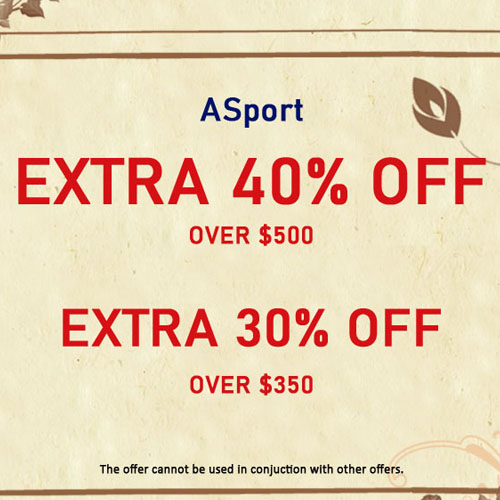
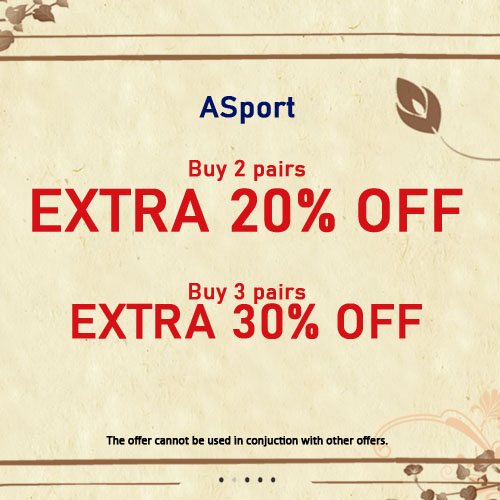
pairing

diff --git a/lib/request.dart b/lib/request.dart
@@ -85,33 +85,34 @@ class Request extends State<RequestPage> {
             Card(
               child: ListTile(
                 leading: Column(
-                  children: const <Widget>[
+                  children: <Widget>[
                     (CircleAvatar(
-                      backgroundColor: Colors.deepOrangeAccent,
-                      child: Text("TH"),
+                      backgroundColor: Colors.white,
+                      child: Image(
+                          image: NetworkImage(pairing.postedBy.avatarUrl)),
                     )),
                   ],
                   mainAxisAlignment: MainAxisAlignment.center,
                 ),
-                title: const Text("ASport 40% off over \$500"),
+                title: Text(pairing.item),
                 isThreeLine: true,
                 subtitle: Column(
                   crossAxisAlignment: CrossAxisAlignment.start,
                   children: <Widget>[
                     RichText(
-                      text: const TextSpan(
-                        text: 'Nano Plaza (ASport) 150m',
+                      text: TextSpan(
+                        text: pairing.location.desc,
                         //style: DefaultTextStyle.of(context).style,
                       ),
                     ),
                     RichText(
-                      text: const TextSpan(
+                      text: TextSpan(
                         text: "Post by ",
                         //style: DefaultTextStyle.of(context).style,
                         children: <TextSpan>[
                           TextSpan(
-                            text: "ASport Official",
-                            style: TextStyle(fontWeight: FontWeight.bold),
+                            text: pairing.postedBy.username,
+                            style: const TextStyle(fontWeight: FontWeight.bold),
                           ),
                         ],
                       ),
@@ -139,7 +140,7 @@ class Request extends State<RequestPage> {
 
   void onPressed() {
     Pairing newPairing = Pairing(
-      item: pairing.item,
+      item: subjectEditingController.text,
       location: pairing.location,
       postedBy: pairing.postedBy,
       favorite: pairing.favorite,

diff --git a/lib/pairing_provider.dart b/lib/pairing_provider.dart
@@ -64,7 +64,7 @@ class PairingProvider {
 
     pairings = <Pairing>[
       Pairing(
-        item: 'ASport 40% off over \$500',
+        item: 'ASport Buy 2 for 20% off',
         postedBy: asport,
         location: PostedLocation(
           desc: 'Nano Plaza - ASport',
@@ -82,7 +82,7 @@ class PairingProvider {
         postedBy: koey98,
         location: PostedLocation(
           desc: 'Nano Plaza - ASport',
-          location: LocationProvider.central,
+          location: LocationProvider.singapore,
         ),
         favorite: false,
         postedDate: twelveMinAgo,
@@ -92,8 +92,22 @@ class PairingProvider {
         requesters: [asport],
       ),
       Pairing(
+        item: 'CcGlasses buy 2 get 1 free!!!',
+        postedBy: koey98,
+        location: PostedLocation(
+          desc: 'Nano Plaza - CcGlasses',
+          location: LocationProvider.central,
+        ),
+        favorite: false,
+        postedDate: fiveDaysAgo,
+        deadline: twoWeeksAfter,
+        liked: 8,
+        bannerUrl: '../asset/discount-b2g1.jpg',
+        requesters: [asport],
+      ),
+      Pairing(
         item: '\$800 for 20% off!',
-        postedBy: jack,
+        postedBy: aby,
         location: PostedLocation(
           desc: 'Far Far Plaza - Boutique',
           location: LocationProvider.london,

diff --git a/lib/b2c.dart b/lib/b2c.dart
@@ -134,8 +134,8 @@ class B2C extends StatelessWidget {
               child: Center(
                 child: Column(
                   children: [
-                    const Image(
-                      image: NetworkImage('../asset/discount_photo.jpg'),
+                    Image(
+                      image: NetworkImage(pairing.bannerUrl),
                     ),
                     ListTile(
                       title: Padding(
@@ -261,7 +261,7 @@ class B2C extends StatelessWidget {
                       ),
                     ),
                     SizedBox(
-                      height: 100,
+                      height: pairing.requesters.isEmpty ? 10 : 100,
                       child: ListView.builder(
                         scrollDirection: Axis.horizontal,
                         itemBuilder: ((context, index) => renderInterestedParty(

diff --git a/lib/main.dart b/lib/main.dart
@@ -302,7 +302,10 @@ class PairingItem extends StatelessWidget {
             subtitle: Column(
                 crossAxisAlignment: CrossAxisAlignment.start,
                 children: <Widget>[
-                  RichText(text: TextSpan(text: pairing.location.desc)),
+                  RichText(
+                      text: TextSpan(
+                          text: pairing.location.desc,
+                          style: const TextStyle(color: Colors.black))),
                   RichText(
                       text: TextSpan(
                           text: 'Post by ',

diff --git a/README.md b/README.md
@@ -14,3 +14,7 @@ A few resources to get you started if this is your first Flutter project:
 For help getting started with Flutter, view our
 [online documentation](https://flutter.dev/docs), which offers tutorials,
 samples, guidance on mobile development, and a full API reference.
+
+
+
+All photo assets are either from AniMaker or original work of CrowdBuy. All right reserved by original owners. 
